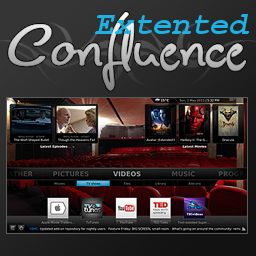
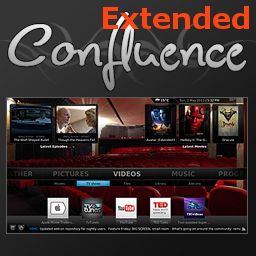
fix name

Changed region(s): [[0.375, 0.0, 1.0, 0.1562]]

diff --git a/README.md b/README.md
@@ -1,1 +1,1 @@
-# Confluence Extented Shortcuts is the modernized skin for KODI.
+# Confluence Extended Shortcuts is the modernized skin for KODI.
